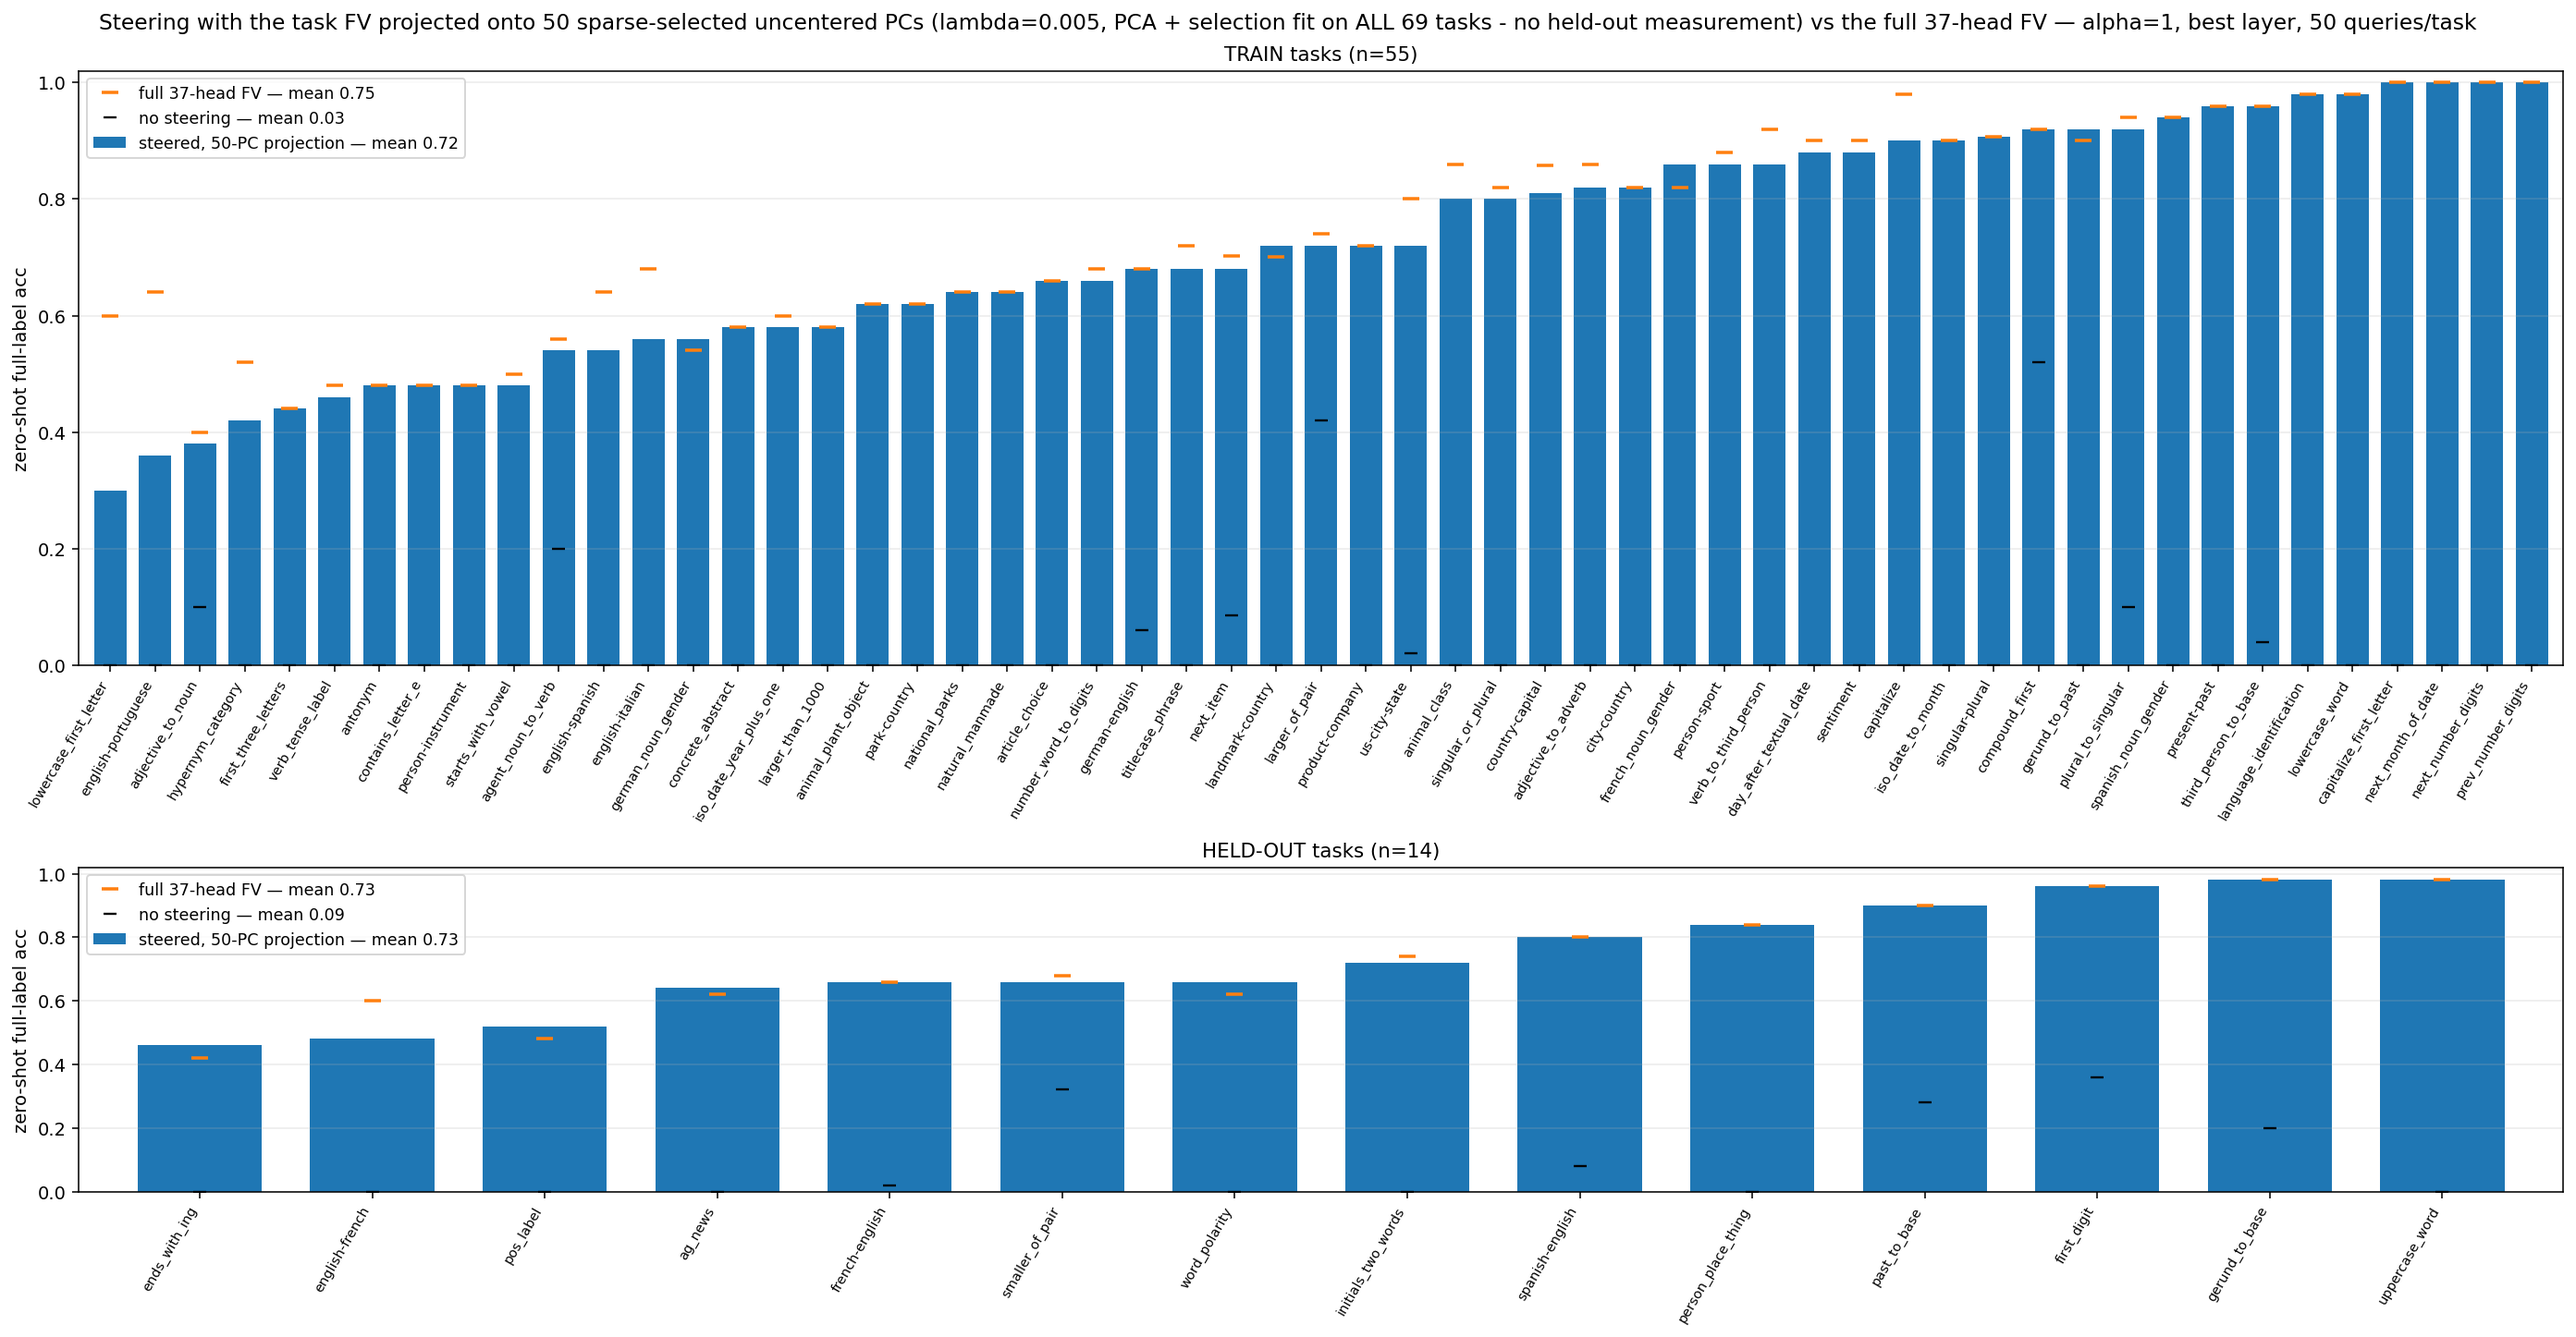
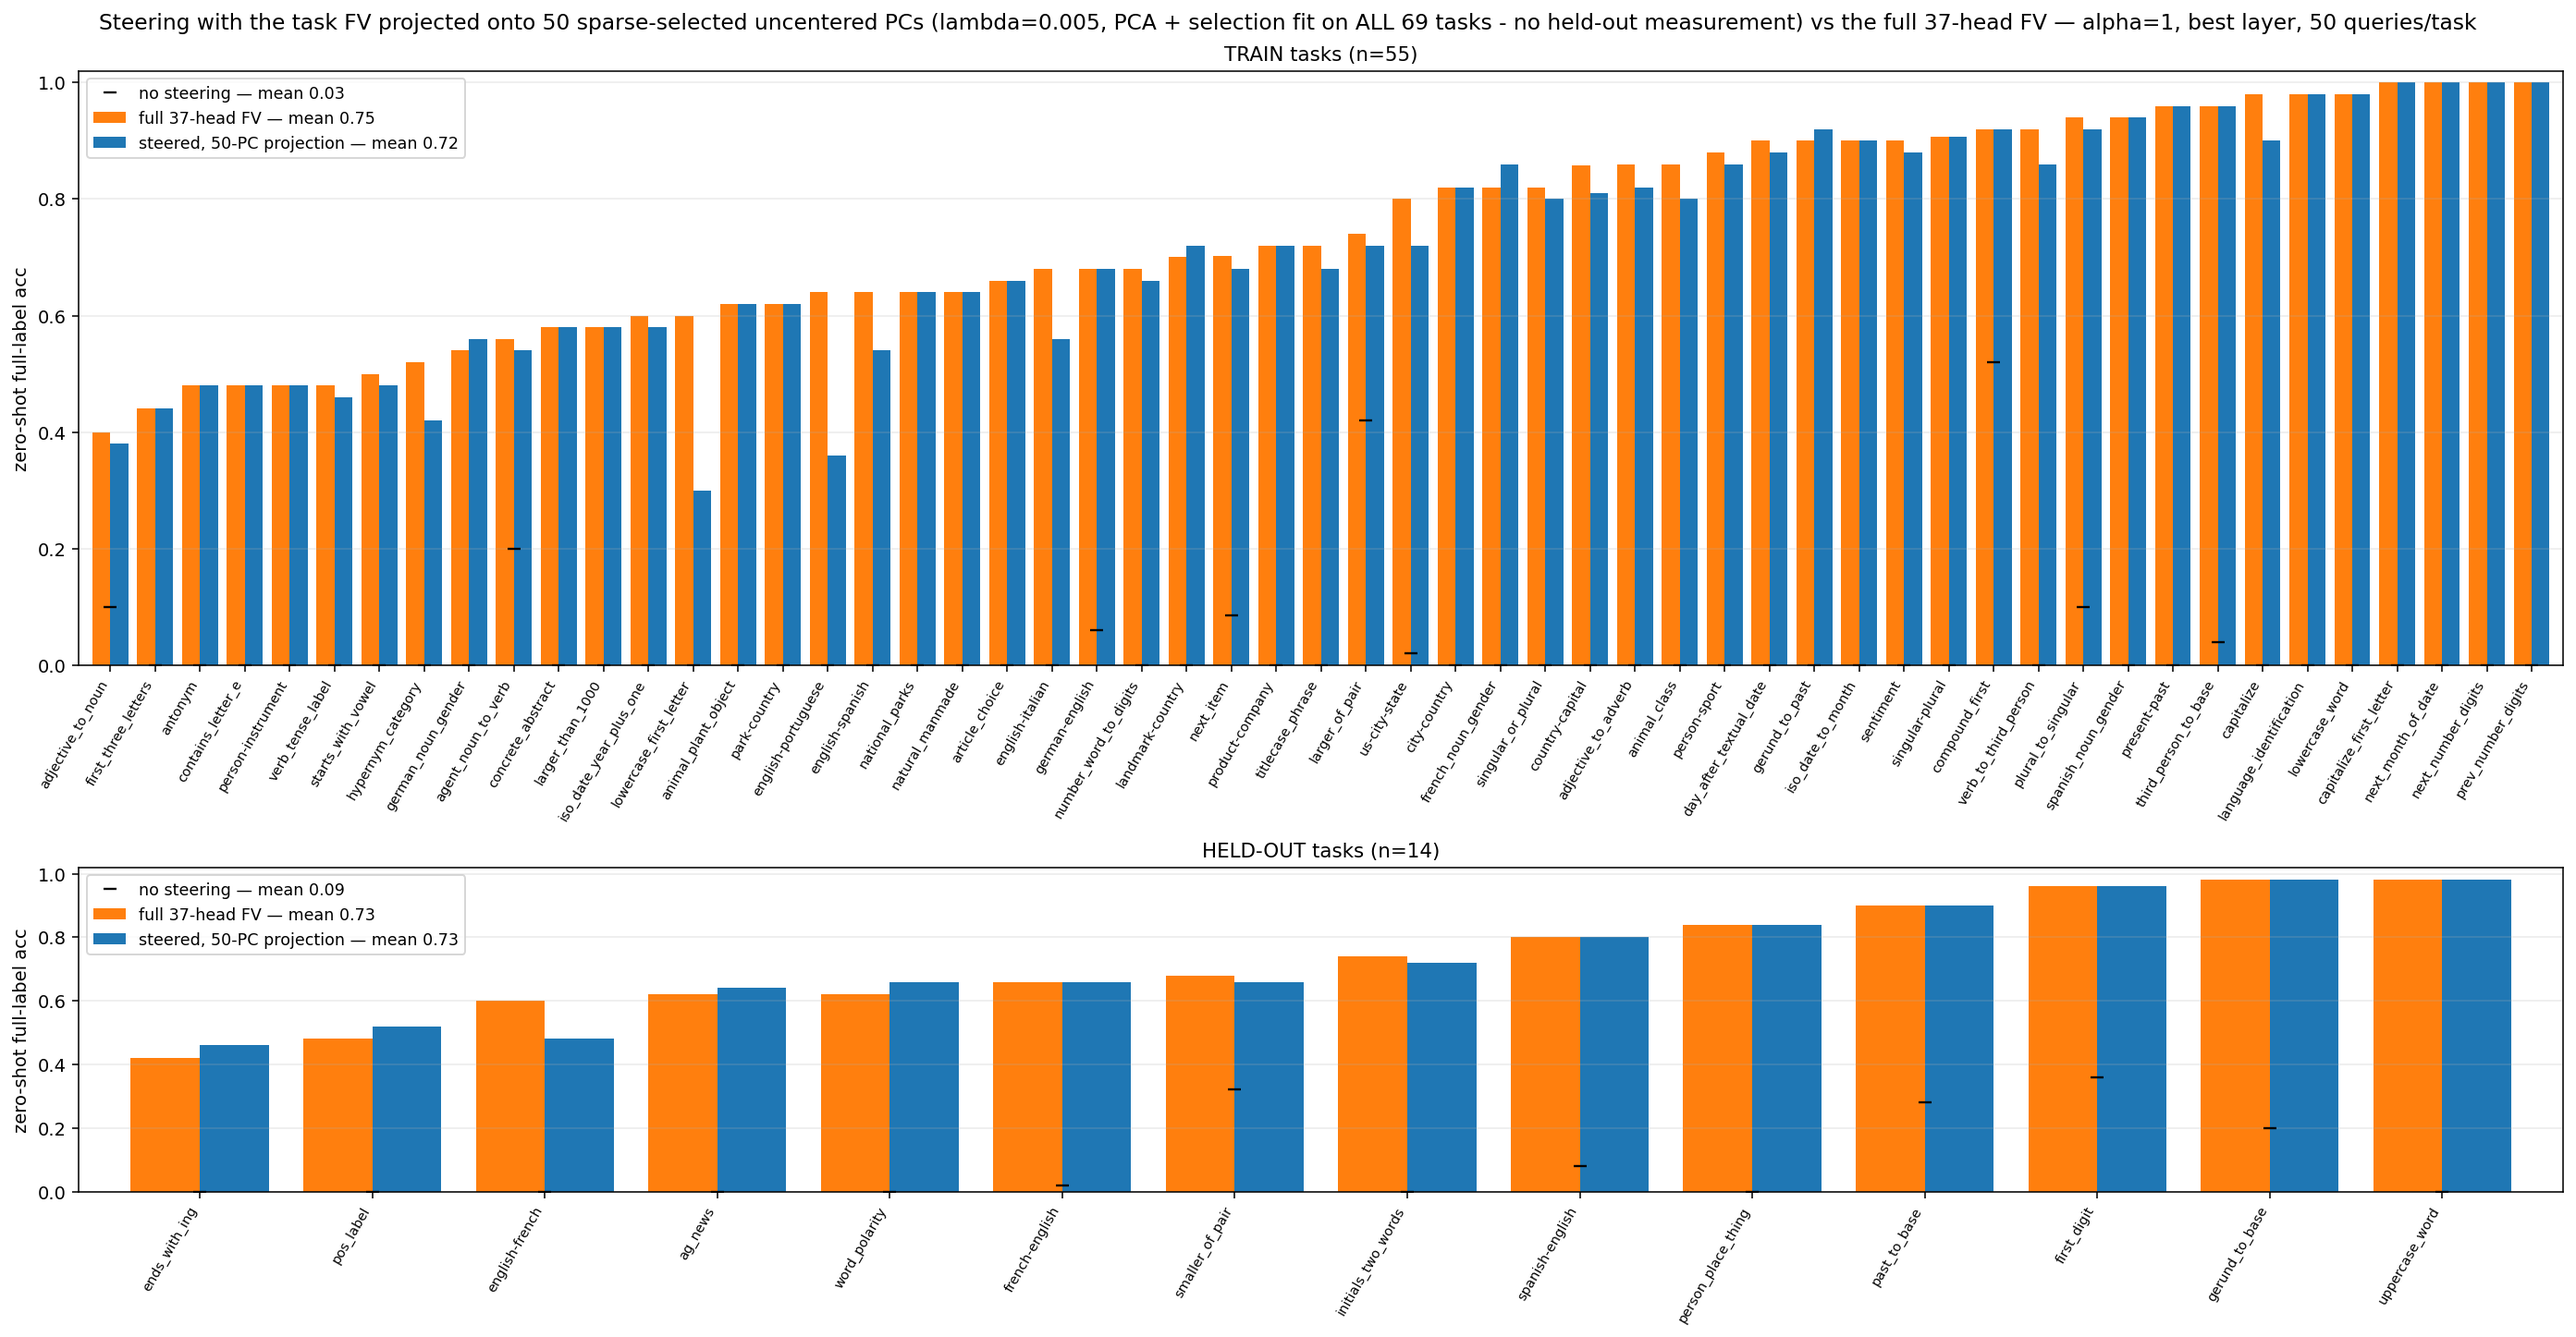
sparse_all69 bars: full FV as paired orange bars instead of dashes

diff --git a/src/eval_scripts/plot_69_pcproj_results.py b/src/eval_scripts/plot_69_pcproj_results.py
@@ -69,16 +69,16 @@ def main():
                              gridspec_kw={"height_ratios": [55, 30]})
     for ax, grp, title in ((axes[0], "train", "TRAIN tasks (n=55)"),
                            (axes[1], "heldout", "HELD-OUT tasks (n=14)")):
-        rs = sorted([r for r in rows if r["group"] == grp], key=lambda r: r["zs_best"])
+        rs = sorted([r for r in rows if r["group"] == grp], key=lambda r: r["zs_full_best"])
         x = np.arange(len(rs))
         m_proj = np.mean([r["zs_best"] for r in rs])
         m_full = np.mean([r["zs_full_best"] for r in rs])
         m_base = np.mean([r["zs_base"] for r in rs])
-        ax.bar(x, [r["zs_best"] for r in rs], width=0.72, color="tab:blue",
+        w = 0.4
+        ax.bar(x - w / 2, [r["zs_full_best"] for r in rs], width=w, color="tab:orange",
+               label=f"full 37-head FV — mean {m_full:.2f}")
+        ax.bar(x + w / 2, [r["zs_best"] for r in rs], width=w, color="tab:blue",
                label=f"steered, {n_pcs}-PC projection — mean {m_proj:.2f}")
-        ax.plot(x, [r["zs_full_best"] for r in rs], "_", color="tab:orange", markersize=9,
-                markeredgewidth=1.8, linestyle="none",
-                label=f"full 37-head FV — mean {m_full:.2f}")
         ax.plot(x, [r["zs_base"] for r in rs], "k_", markersize=7, markeredgewidth=1.2,
                 linestyle="none", label=f"no steering — mean {m_base:.2f}")
         ax.set_xticks(x)
